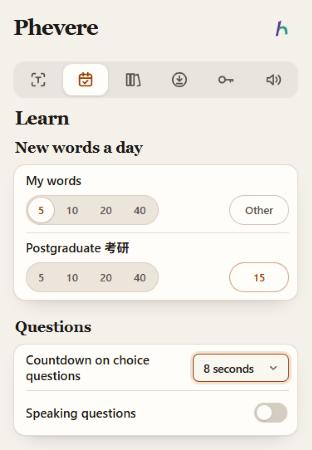
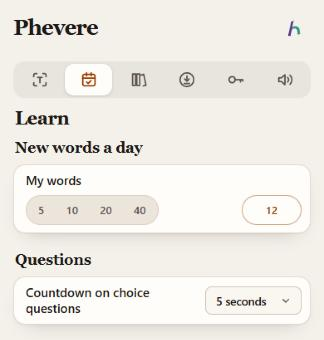
docs(review): retake Settings -> Learn without the speaking switch

diff --git a/docs/REVIEW.md b/docs/REVIEW.md
@@ -214,7 +214,7 @@ The Today page has two charts of its own: reviews due over the next fourteen day
 
 Since 2026-11-05 the options for Learn live in Settings, on the desktop and the phone, and the Learn tab only shows what they settle. That is where every app we looked at keeps them: Anki's daily limits and timers are deck options ([manual](https://docs.ankiweb.net/deck-options.html)), Shanbay keeps 每日单词量 under 我的 and 学习设置, Duolingo keeps the daily goal and the speaking and listening switches in Settings, and WaniKani moved its daily lesson count to App Settings ([blog](https://blog.wanikani.com/posts/today-lessons-count-setting/)).
 
-![Screenshot of Settings → Learn on a phone: new words a day for My words and for the Postgraduate book, and the countdown on choice questions set to 5 seconds](REVIEW.assets/settings-learn-phone.png)
+![Screenshot of Settings → Learn on a phone: new words a day for My words set to 12 in the Other field, and the countdown on choice questions set to 5 seconds](REVIEW.assets/settings-learn-phone.png)
 
 *Settings → Learn: a goal per list and the countdown.*
 
